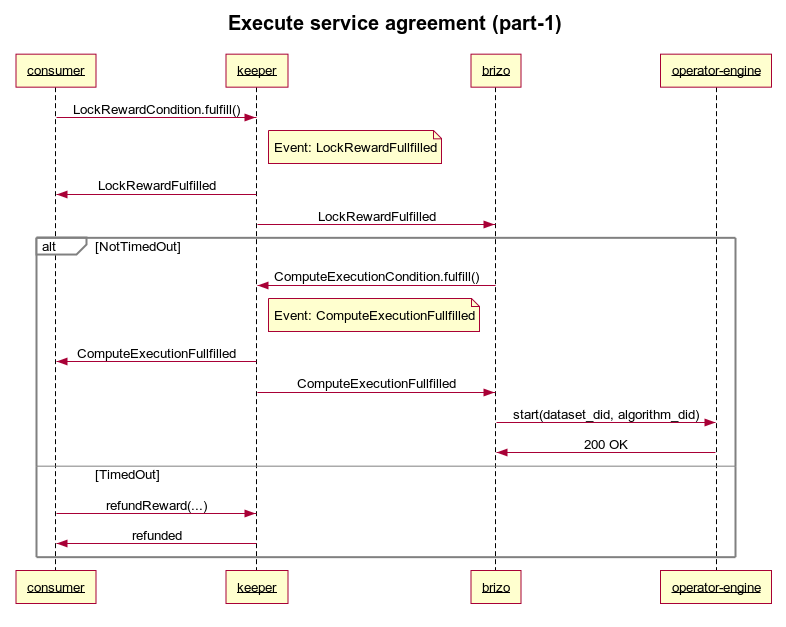
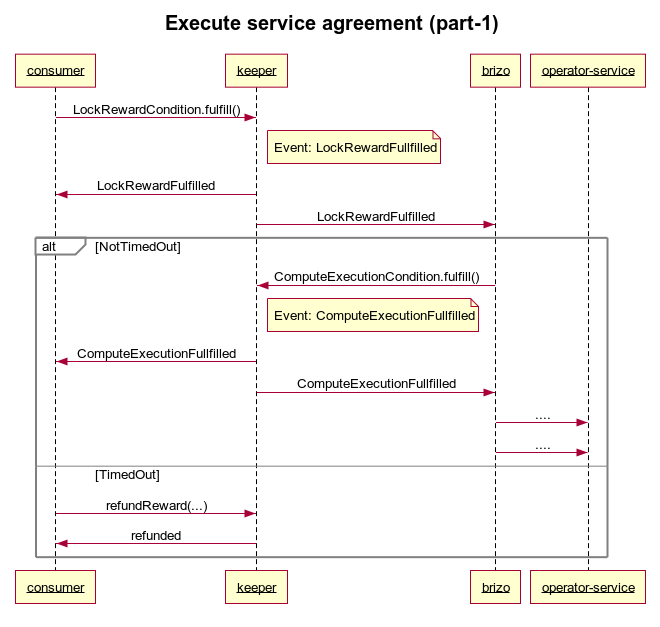
update part-2

diff --git a/12/README.md b/12/README.md
@@ -171,9 +171,34 @@ to withdraw their payments after timeout if the computation service wasn't confi
 
 ![](images/3_executeSEAPart1.png)
 
-#### Infrastructure Orchestration
+### Part-2
 
-#### Services Provided by the Operator
+In this part, the trigger of the agreement execution goes from on-chain (keeper) to Brizo in order to handle the compute job 
+by calling the operator service. For compute service, Brizo exposes the same endpoints of the operator service. For more details about the operator service APIs check out the below section.
+
+#### Infrastructure Orchestration
+The infrastructure is orchestrated by [operator service](https://github.com/oceanprotocol/operator-service). The operator service provides life cycle management APIs for compute
+service. The APIs are as follows:
+
+- **start**: starts a new job within the context of agreement.
+- **stop**: stop running job. This requires valid agreement Id, job id, and job ownership.
+- **status**: For a given agreement Id, and (job id -- optional) returns job status(es). Status code description below.
+- **restart**: calls stop API, then start job again from scratch.
+- **delete**: deletes a compute job and all resources associated with the job. If job is running it will be stopped first.
+              
+| status   | Description        |
+|----------|--------------------|
+|  10       | Job started        |
+|  20       | Configuring volumes|
+|  30       | Provisioning success |
+|  31       | Data provisioning failed |
+|  32       | Algorithm provisioning failed |
+|  40       | Running algorith   |
+|  50       | Filtering results  |
+|  60       | Publishing results |
+|  70       | Job completed      |
+
+For more details, please refer to [operator service APIs documentation](https://github.com/oceanprotocol/operator-service/blob/develop/API.md)
 
 #### Orchestration Steps 
 
